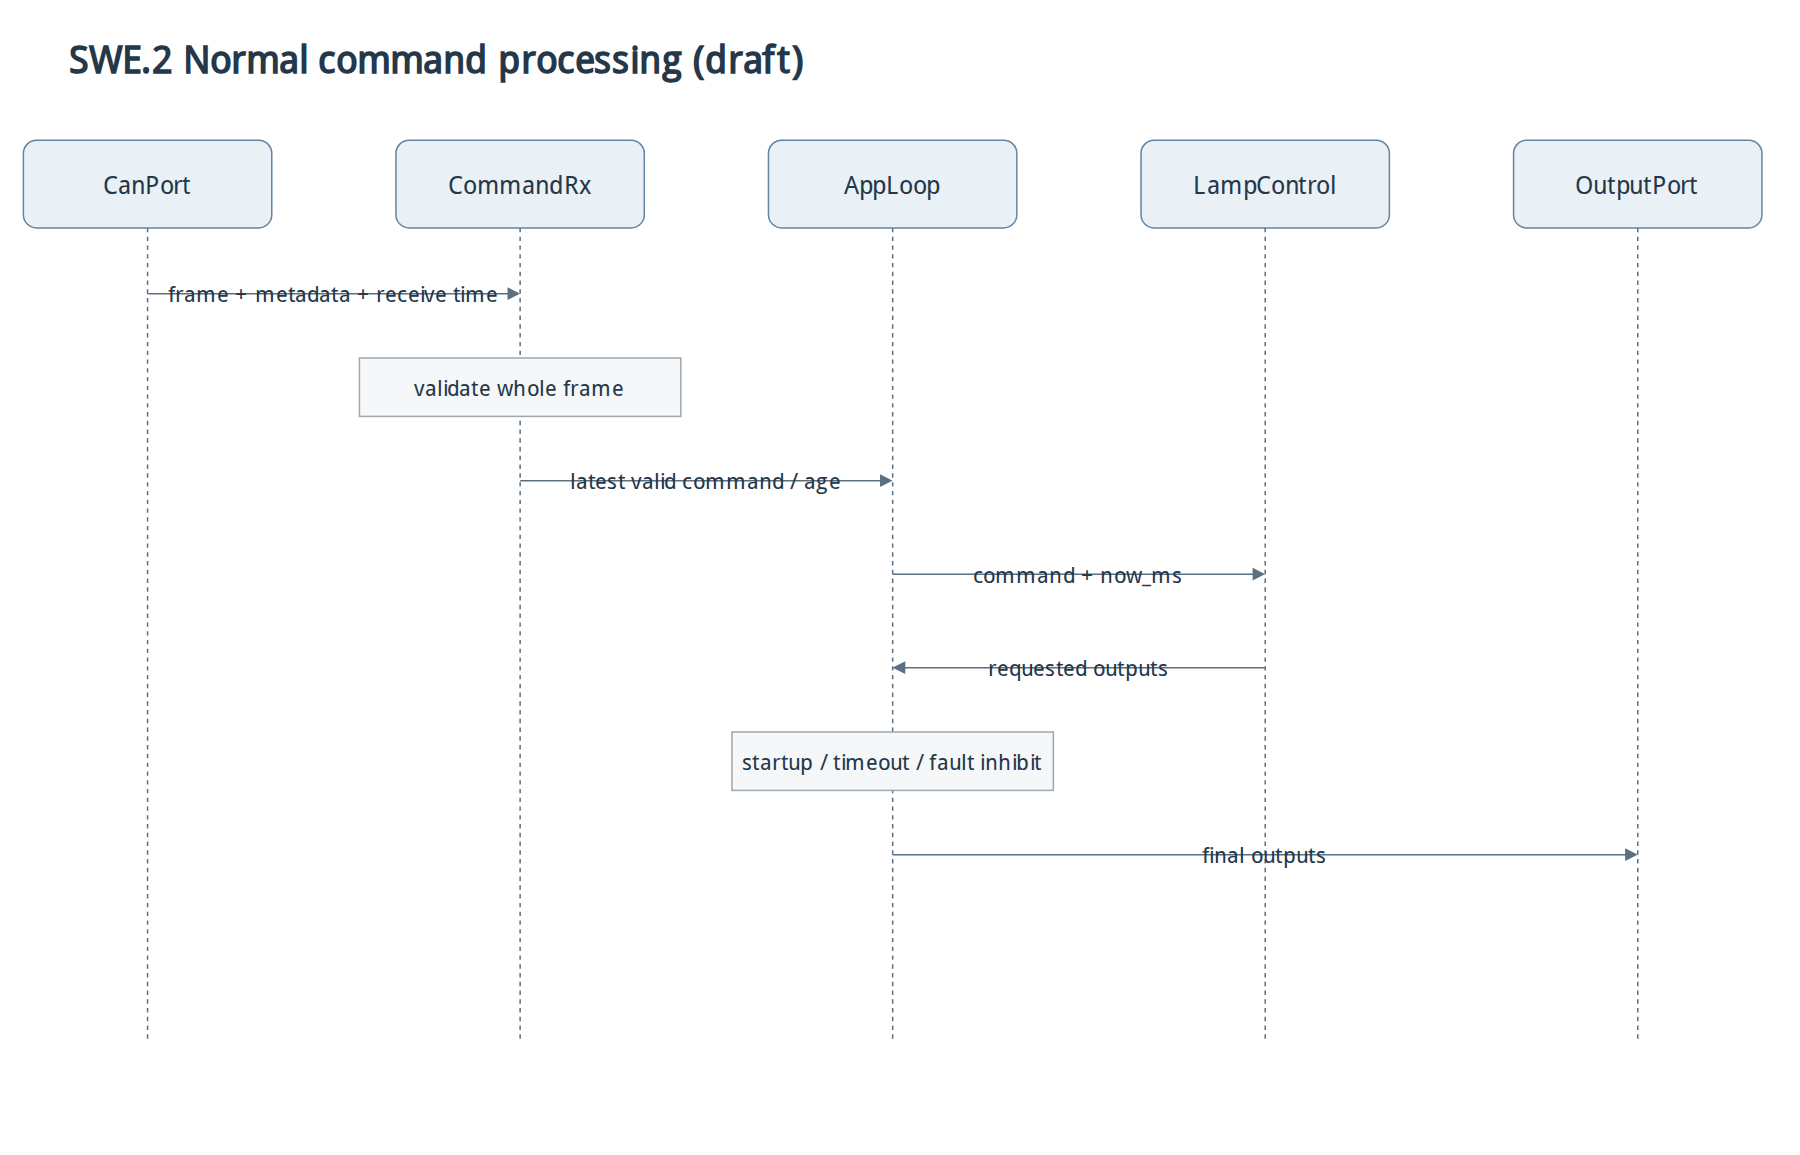
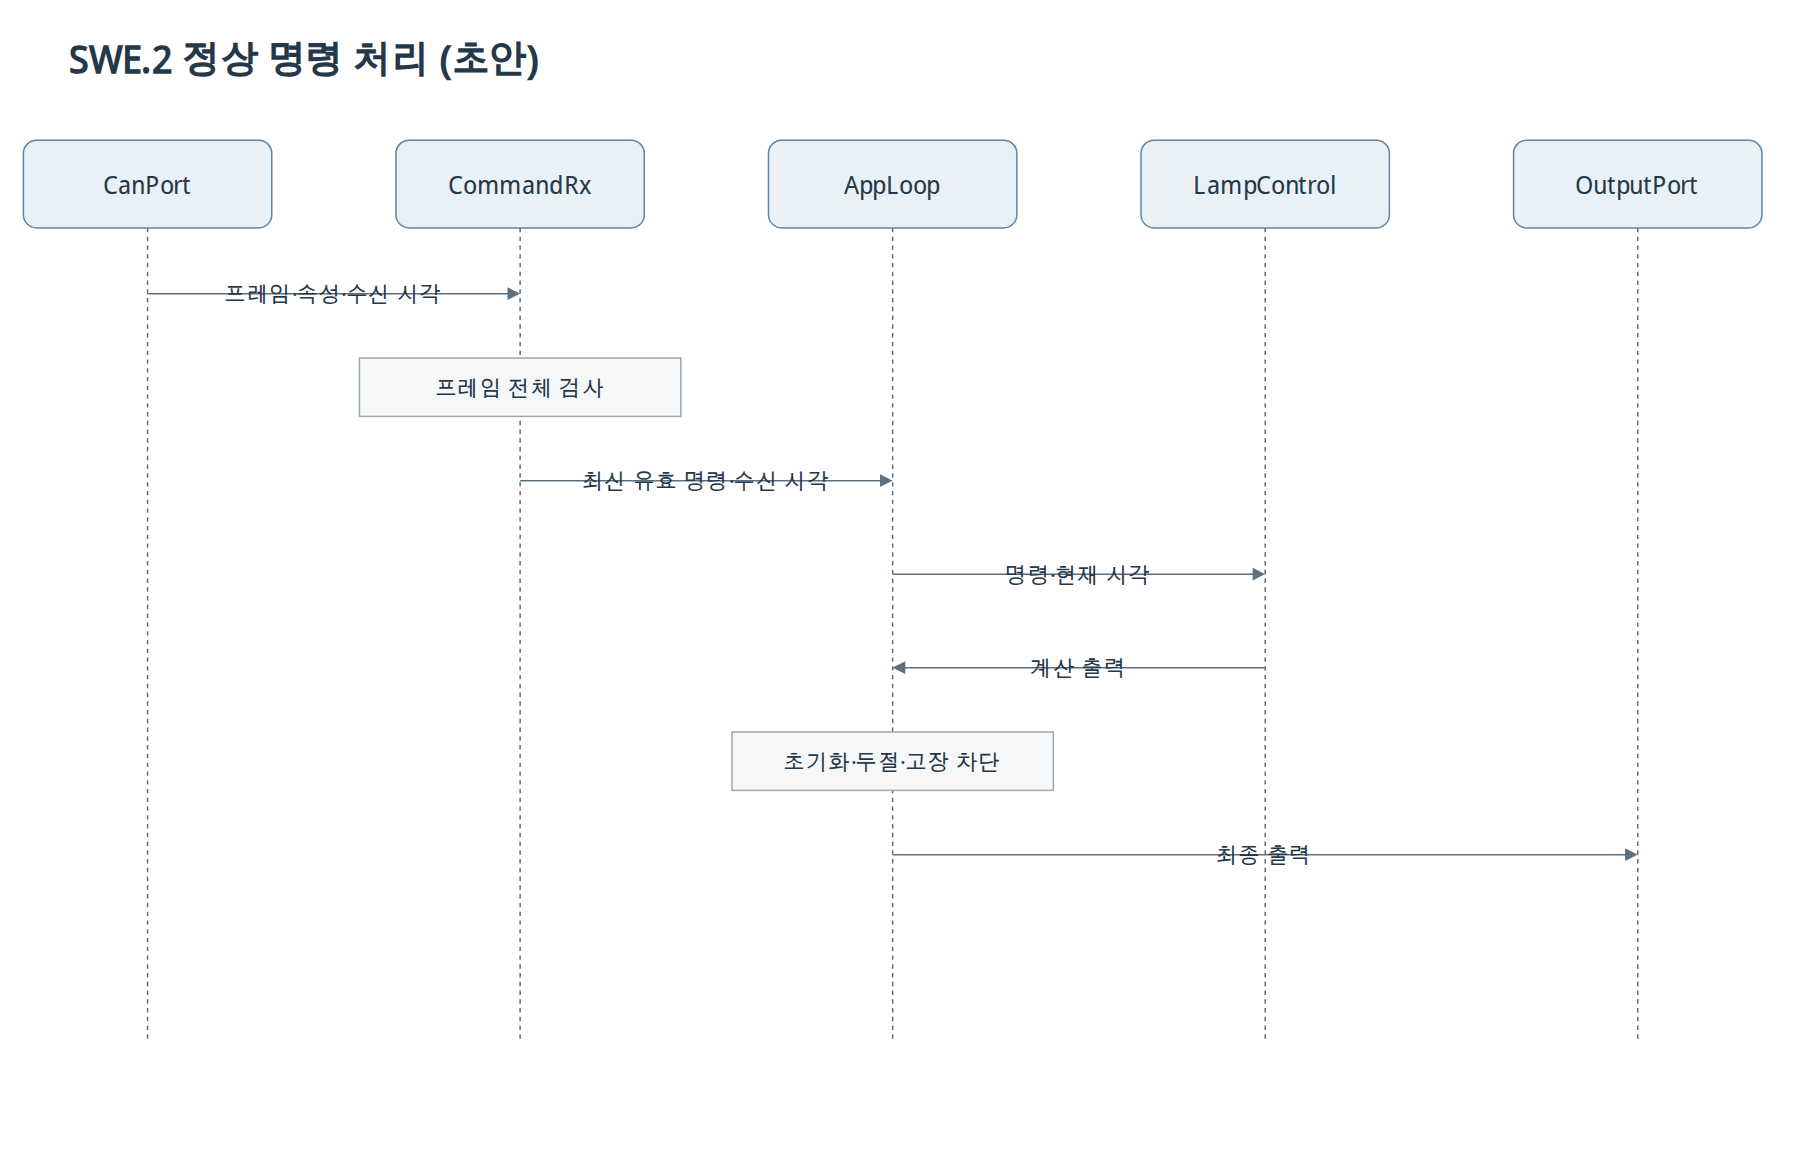
docs: 다이어그램 원본 분리와 한글 설명 정리
- diagrams/source로 draw.io 원본 4개 이동
- SW 구성·시퀀스 설명 한글화
- 미사용 SVG 10개 제거와 문서 링크 갱신

diff --git a/docs/[HWE.2]design.md b/docs/[HWE.2]design.md
@@ -12,4 +12,4 @@
 
 예정 산출물: KiCad `.kicad_sch`, 실제 사용 부품 BOM, 선정·계산 근거, ERC 결과·미해결 항목.
 보유 부품 전체 목록과 실제 회로 BOM의 구분. PCB 레이아웃·제조 데이터는 이번 범위 제외.
-[기존 장치 구성도](../diagrams/hardware-overview.drawio)는 연결 개요이며 회로 상세 설계 완료 근거가 아님.
+[기존 장치 구성도](../diagrams/source/hardware-overview.drawio)는 연결 개요이며 회로 상세 설계 완료 근거가 아님.

diff --git a/docs/environment.md b/docs/environment.md
@@ -2,7 +2,7 @@
 
 ![장치 구성](../diagrams/hardware-overview.png)
 
-[diagrams.net 원본](../diagrams/hardware-overview.drawio) · [SVG](../diagrams/hardware-overview.svg)
+[diagrams.net 원본](../diagrams/source/hardware-overview.drawio) · [SVG](../diagrams/hardware-overview.svg)
 
 | 요소 | 역할 |
 |---|---|

diff --git a/docs/[SWE.1]behavior-scenarios.md b/docs/[SWE.1]behavior-scenarios.md
@@ -1,7 +1,7 @@
 # SWE.1 동작 시나리오
 
 대상: 외부 입력에 대한 ECU의 관측 가능한 동작. SW 내부 모듈 시퀀스와 구분.
-[diagrams.net 편집 원본](../diagrams/behavior-reference.drawio).
+[diagrams.net 편집 원본](../diagrams/source/behavior-reference.drawio).
 
 ## 정상 명령
 

diff --git a/docs/project-scope.md b/docs/project-scope.md
@@ -39,6 +39,6 @@ ECU 단독 SW 응답 기준과 구분.
 
 ![입출력 환경](../diagrams/environment-context.png)
 
-[diagrams.net 원본](../diagrams/environment-context.drawio)
+[diagrams.net 원본](../diagrams/source/environment-context.drawio)
 
 상세 장치 구성: [환경 문서](environment.md).

diff --git a/docs/[SWE.2]architecture.md b/docs/[SWE.2]architecture.md
@@ -7,7 +7,7 @@
 
 ![SW 컴포넌트](../diagrams/software-static.png)
 
-[diagrams.net 원본](../diagrams/software-architecture.drawio)
+[diagrams.net 원본](../diagrams/source/software-architecture.drawio)
 
 | 컴포넌트 | 책임 | 주요 인터페이스 |
 |---|---|---|
